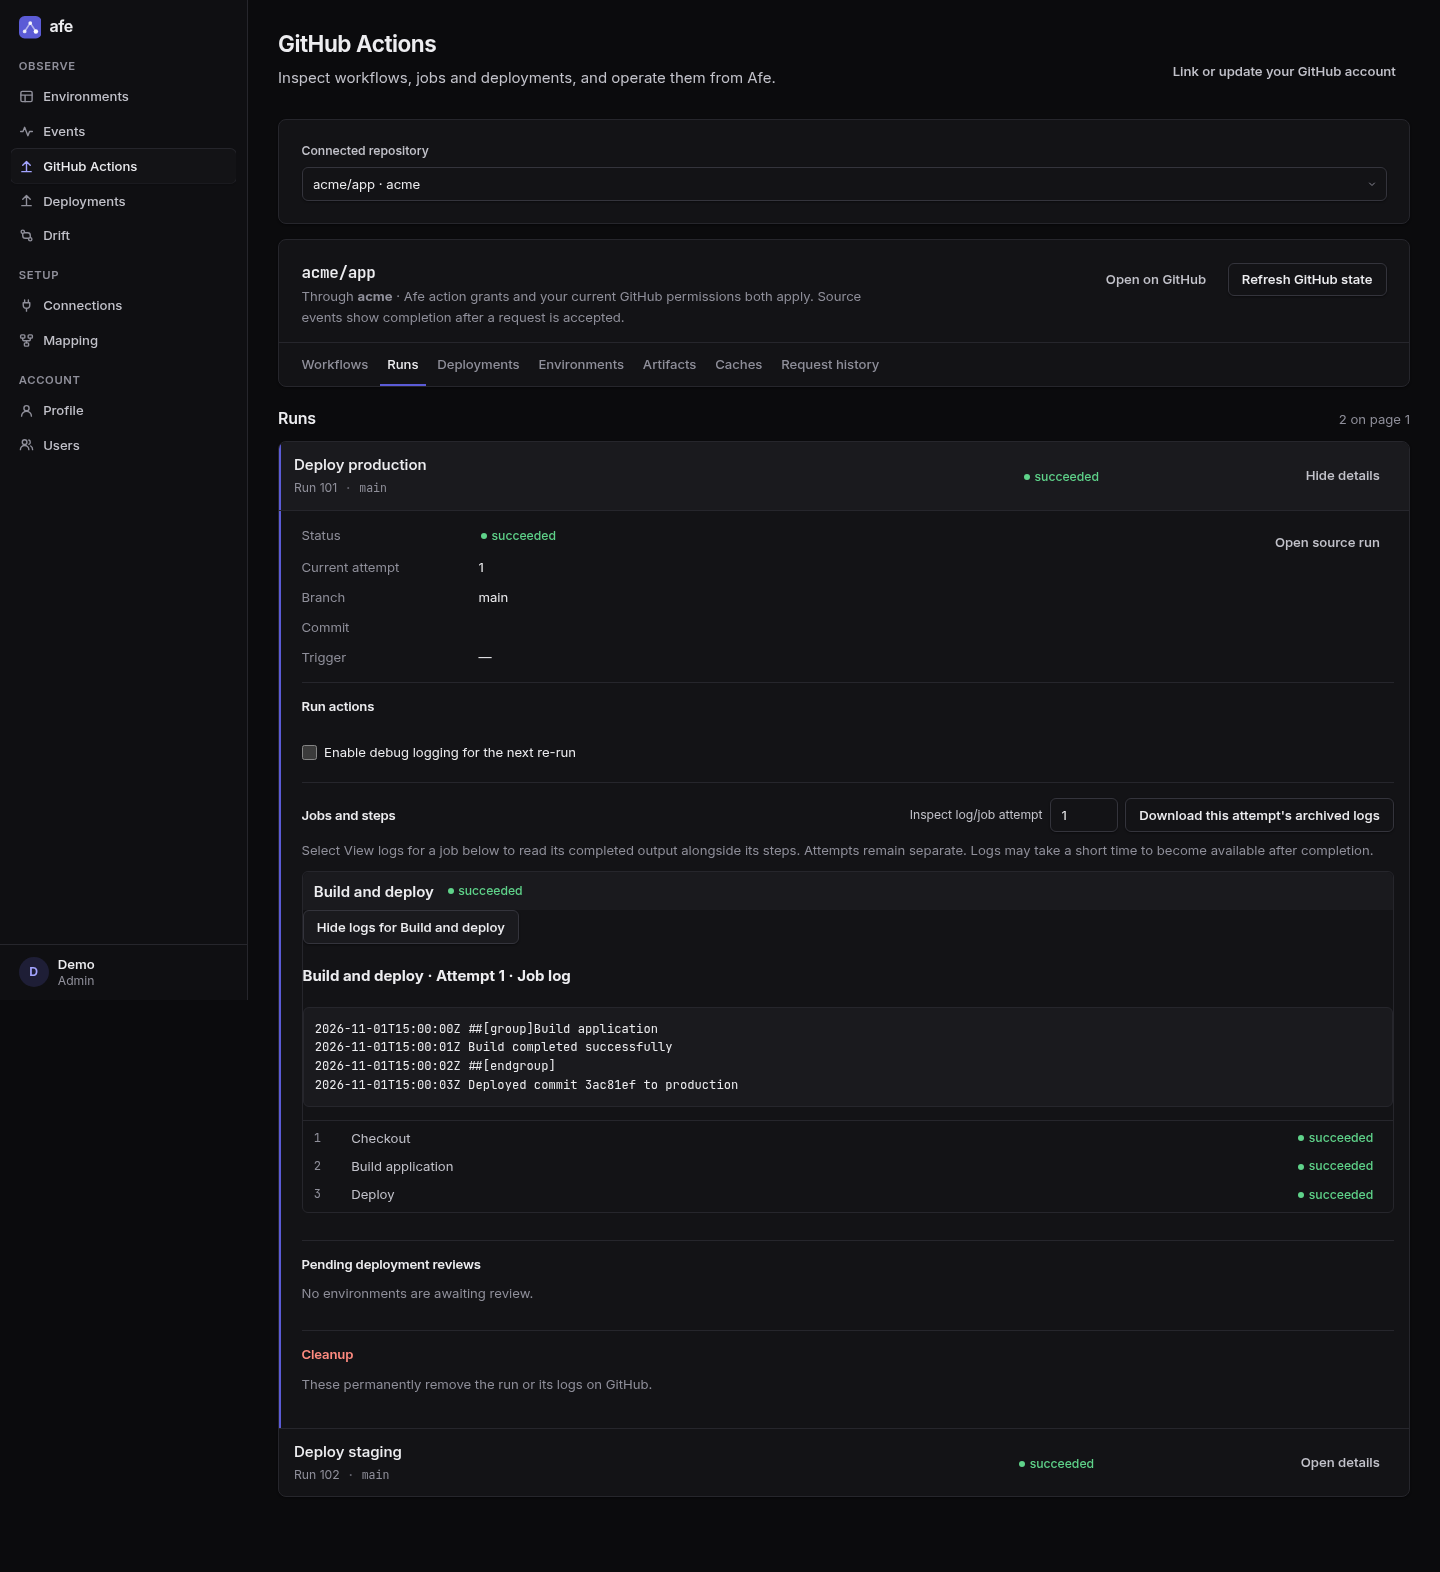
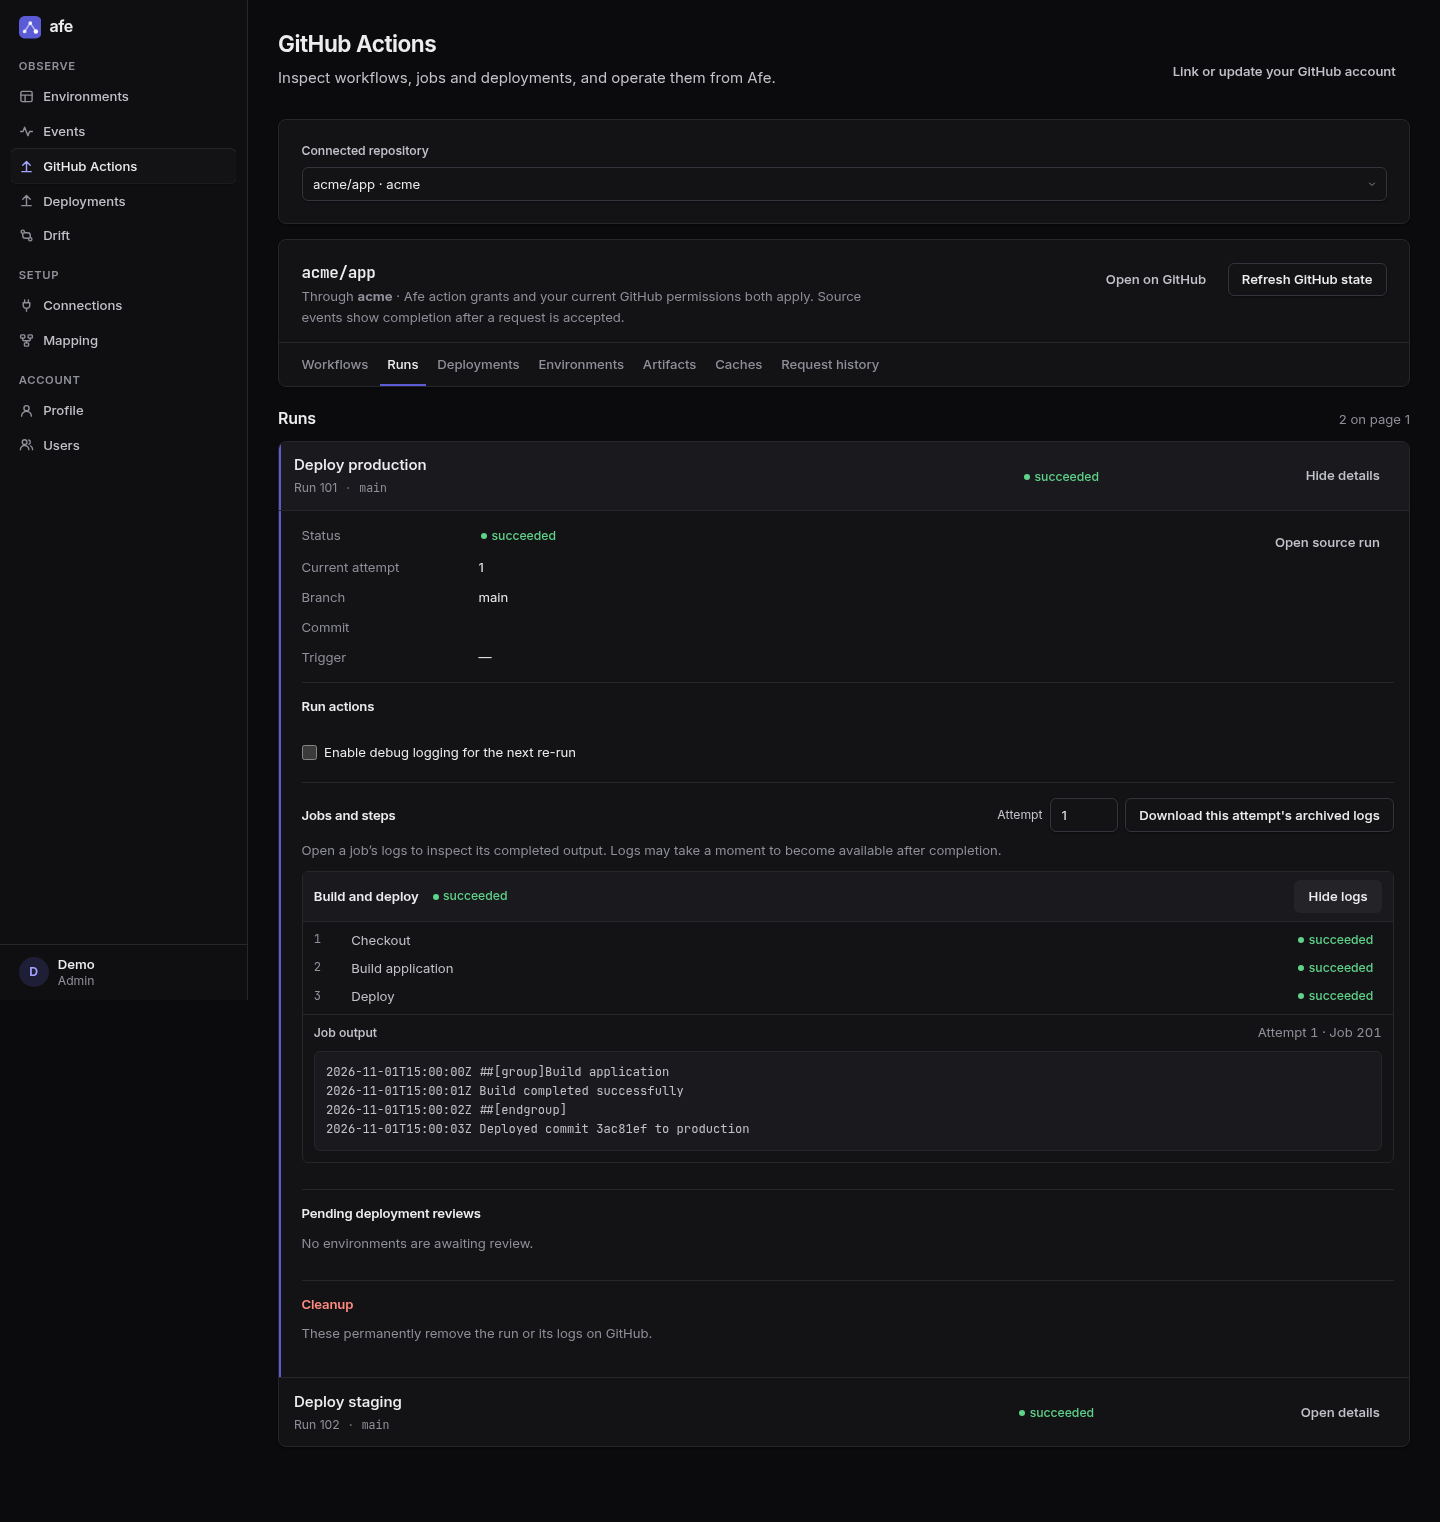
style(web): align workflow job logs with the design system

diff --git a/apps/web/src/pages/GitHubOperations.tsx b/apps/web/src/pages/GitHubOperations.tsx
@@ -1191,9 +1191,10 @@ function RunPanel({
           <h3 id={`run-${item.id}-jobs`}>Jobs and steps</h3>
           <div className="toolbar">
             <label className="gh-inline-field">
-              <span>Inspect log/job attempt</span>
+              <span>Attempt</span>
               <input
                 type="number"
+                aria-label="Inspect log/job attempt"
                 min={1}
                 max={current.run_attempt ?? 1}
                 value={attempt}
@@ -1211,8 +1212,8 @@ function RunPanel({
           </div>
         </div>
         <p className="small muted">
-          Select View logs for a job below to read its completed output alongside its steps.
-          Attempts remain separate. Logs may take a short time to become available after completion.
+          Open a job’s logs to inspect its completed output. Logs may take a moment to become
+          available after completion.
         </p>
         {archives.loading && <Loading label="Checking log access…" />}
         {archives.error && <ErrorBox error={archives.error} onRetry={archives.reload} />}
@@ -1227,37 +1228,19 @@ function RunPanel({
         {!jobs.loading && jobs.data && jobs.data.items.length > 0 && (
           <ul className="gh-jobs">
             {jobs.data.items.map((job) => (
-              <li className="gh-job" key={`${attempt}:${job.id}`}>
-                <div className="gh-job-head">
-                  <span className="gh-job-name">{job.name}</span>
-                  <RunState item={job} />
-                  <span className="gh-job-action">
-                    {button("github.rerun_job", {
-                      ...params,
-                      jobId: job.id,
-                      enableDebugLogging: debug,
-                    })}
-                  </span>
-                </div>
-                <RunJobLog
-                  job={job}
-                  runId={item.id}
-                  attempt={attempt}
-                  read={read}
-                  enabled={logCapability?.enabled === true}
-                />
-                {!!job.steps?.length && (
-                  <ol className="gh-steps">
-                    {job.steps.map((step) => (
-                      <li key={step.number}>
-                        <span className="gh-step-number">{step.number}</span>
-                        <span className="gh-step-name">{step.name}</span>
-                        <RunState item={step} />
-                      </li>
-                    ))}
-                  </ol>
-                )}
-              </li>
+              <RunJob
+                key={`${attempt}:${job.id}`}
+                job={job}
+                runId={item.id}
+                attempt={attempt}
+                read={read}
+                enabled={logCapability?.enabled === true}
+                action={button("github.rerun_job", {
+                  ...params,
+                  jobId: job.id,
+                  enableDebugLogging: debug,
+                })}
+              />
             ))}
           </ul>
         )}
@@ -1856,40 +1839,68 @@ function EnvironmentEditor({
   );
 }
 
-function RunJobLog({
+function RunJob({
   job,
   runId,
   attempt,
   read,
   enabled,
+  action,
 }: {
   job: Item;
   runId: number;
   attempt: number;
   read: Reader;
   enabled: boolean;
+  action: React.ReactNode;
 }) {
   const [open, setOpen] = useState(false);
+  const outputId = `gh-log-${runId}-${attempt}-${job.id}`;
   return (
-    <div>
-      <button
-        className="btn"
-        disabled={!enabled}
-        aria-expanded={open}
-        onClick={() => setOpen((v) => !v)}
-      >
-        {open ? `Hide logs for ${job.name}` : `View logs for ${job.name}`}
-      </button>
-      {open && <RunJobLogOutput runId={runId} attempt={attempt} job={job} read={read} />}
-    </div>
+    <li className="gh-job">
+      <div className="gh-job-head">
+        <span className="gh-job-name">{job.name}</span>
+        <RunState item={job} />
+        <div className="toolbar gh-job-action">
+          <button
+            className="btn btn-ghost"
+            disabled={!enabled}
+            aria-label={`${open ? "Hide" : "View"} logs for ${job.name}`}
+            aria-expanded={open}
+            aria-controls={open ? outputId : undefined}
+            onClick={() => setOpen((v) => !v)}
+          >
+            {open ? "Hide logs" : "View logs"}
+          </button>
+          {action}
+        </div>
+      </div>
+      {!!job.steps?.length && (
+        <ol className="gh-steps">
+          {job.steps.map((step) => (
+            <li key={step.number}>
+              <span className="gh-step-number">{step.number}</span>
+              <span className="gh-step-name">{step.name}</span>
+              <RunState item={step} />
+            </li>
+          ))}
+        </ol>
+      )}
+      {open && enabled && (
+        <RunJobLogOutput id={outputId} runId={runId} attempt={attempt} job={job} read={read} />
+      )}
+    </li>
   );
 }
+
 function RunJobLogOutput({
+  id,
   runId,
   attempt,
   job,
   read,
 }: {
+  id: string;
   runId: number;
   attempt: number;
   job: Item;
@@ -1905,32 +1916,37 @@ function RunJobLogOutput({
     [runId, attempt, job.id],
   );
   return (
-    <section aria-label={`Logs for ${job.name}, attempt ${attempt}`}>
-      <h4>
-        {job.name} · Attempt {attempt} · Job log
-      </h4>
-      {log.loading && <Loading label="Fetching job logs…" />}
-      {log.error && (
-        <ErrorBox
-          error={log.error}
-          title={
-            log.error instanceof ApiError && log.error.status === 409
-              ? "Logs not ready yet"
-              : log.error instanceof ApiError && log.error.status === 403
-                ? "Log access denied"
-                : "Job logs unavailable"
-          }
-          onRetry={log.reload}
-        />
-      )}
-      {log.data &&
-        (log.data.text ? (
-          <pre className="json github-run-log" aria-label={`Job log for ${job.name}`} tabIndex={0}>
-            {log.data.text}
-          </pre>
-        ) : (
-          <p className="muted">This job has no log output.</p>
-        ))}
+    <section className="gh-job-log" id={id} aria-label={`Logs for ${job.name}, attempt ${attempt}`}>
+      <div className="gh-job-log-head">
+        <h4>Job output</h4>
+        <span className="small muted">
+          Attempt {attempt} · Job {job.id}
+        </span>
+      </div>
+      <div className="gh-job-log-body">
+        {log.loading && <Loading label="Fetching job logs…" />}
+        {log.error && (
+          <ErrorBox
+            error={log.error}
+            title={
+              log.error instanceof ApiError && log.error.status === 409
+                ? "Logs not ready yet"
+                : log.error instanceof ApiError && log.error.status === 403
+                  ? "Log access denied"
+                  : "Job logs unavailable"
+            }
+            onRetry={log.reload}
+          />
+        )}
+        {log.data &&
+          (log.data.text ? (
+            <pre className="gh-job-log-output" aria-label={`Job log for ${job.name}`} tabIndex={0}>
+              {log.data.text}
+            </pre>
+          ) : (
+            <p className="muted">This job has no log output.</p>
+          ))}
+      </div>
     </section>
   );
 }

diff --git a/apps/web/src/pages/GitHubOperations.css b/apps/web/src/pages/GitHubOperations.css
@@ -337,6 +337,7 @@ details.gh-section[open] > summary {
   gap: var(--space-3);
 }
 .gh-job {
+  min-width: 0;
   border: 1px solid var(--border);
   border-radius: var(--radius-sm);
   background: var(--surface);
@@ -351,6 +352,9 @@ details.gh-section[open] > summary {
   border-radius: var(--radius-sm) var(--radius-sm) 0 0;
 }
 .gh-job-name {
+  min-width: 0;
+  overflow-wrap: anywhere;
+  font-size: var(--fs-md);
   font-weight: 600;
   color: var(--text);
 }
@@ -380,6 +384,53 @@ details.gh-section[open] > summary {
 .gh-step-name {
   color: var(--text-2);
   overflow-wrap: anywhere;
+}
+
+/* Completed output stays with its job, below the step summary. */
+.gh-job-log {
+  border-top: 1px solid var(--border);
+  min-width: 0;
+}
+.gh-job-log-head {
+  display: flex;
+  flex-wrap: wrap;
+  justify-content: space-between;
+  align-items: baseline;
+  gap: var(--space-1) var(--space-3);
+  padding: var(--space-2) var(--space-3);
+}
+.gh-job-log-head h4 {
+  margin: 0;
+  font-size: var(--fs-sm);
+  font-weight: 550;
+  color: var(--text-2);
+}
+.gh-job-log-head > span {
+  font-variant-numeric: tabular-nums;
+}
+.gh-job-log-body {
+  padding: 0 var(--space-3) var(--space-3);
+}
+.gh-job-log-body > .state,
+.gh-job-log-body > .muted,
+.gh-job-log-body > .callout {
+  margin: 0;
+}
+.gh-job-log-output {
+  margin: 0;
+  padding: var(--space-3);
+  max-height: 28rem;
+  overflow: auto;
+  white-space: pre;
+  border: 1px solid var(--border);
+  border-radius: var(--radius-sm);
+  background: var(--surface-2);
+  color: var(--text-2);
+  font-family: var(--mono);
+  font-size: var(--fs-sm);
+  line-height: var(--lh);
+  font-variant-numeric: tabular-nums;
+  tab-size: 2;
 }
 
 /* Simple lists inside panels (statuses, branch policies, protection rules). */

diff --git a/docs/github-actions.md b/docs/github-actions.md
@@ -197,7 +197,7 @@ expire with the tenant retention policy; this is not long-term audit storage.
 
 Open **GitHub Actions → choose the connection/repository → Runs → Open details**
 for the desired run. Details expand directly beneath that run. Under **Jobs and
-steps**, select **Inspect log/job attempt**, then **View logs for <job name>**.
+steps**, select **Attempt**, then **View logs** in the desired job’s header.
 The output appears beside that job's step list, labelled with the job and attempt.
 Successful and failed runs both support viewing logs. **Download this attempt's
 archived logs** remains available for the full ZIP archive.
